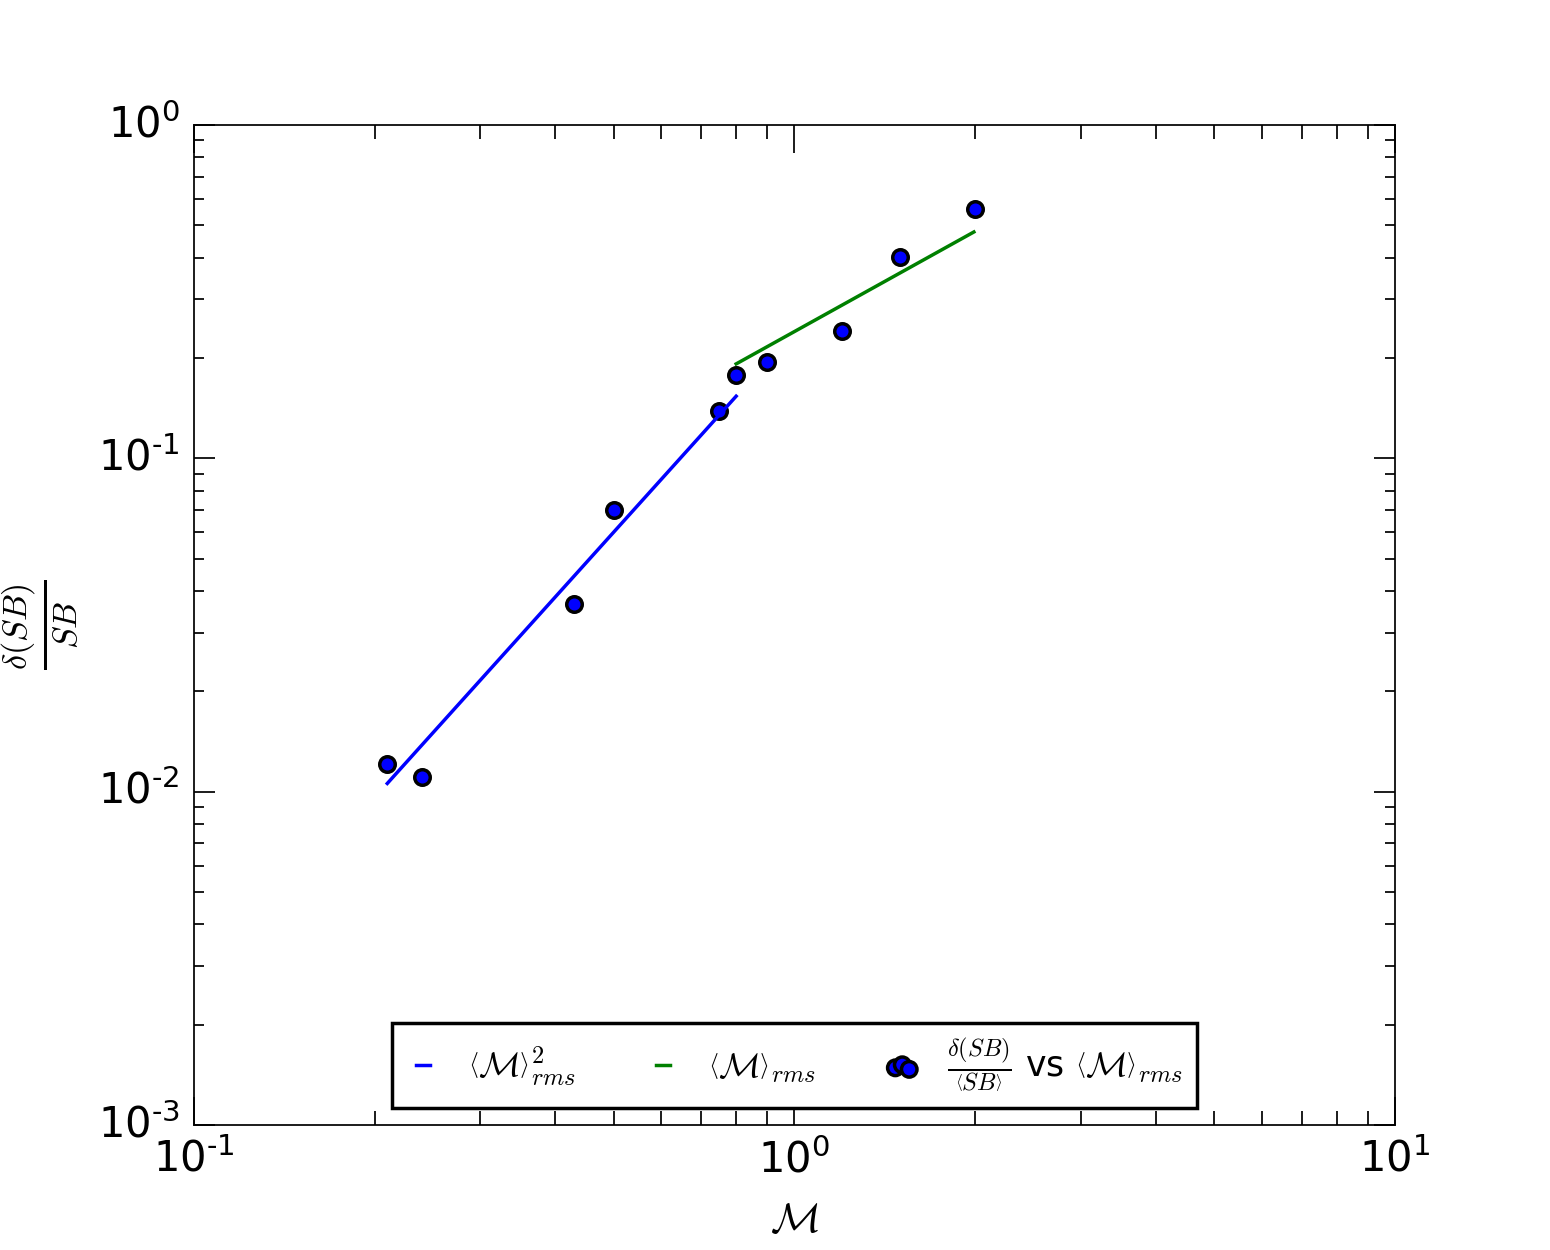
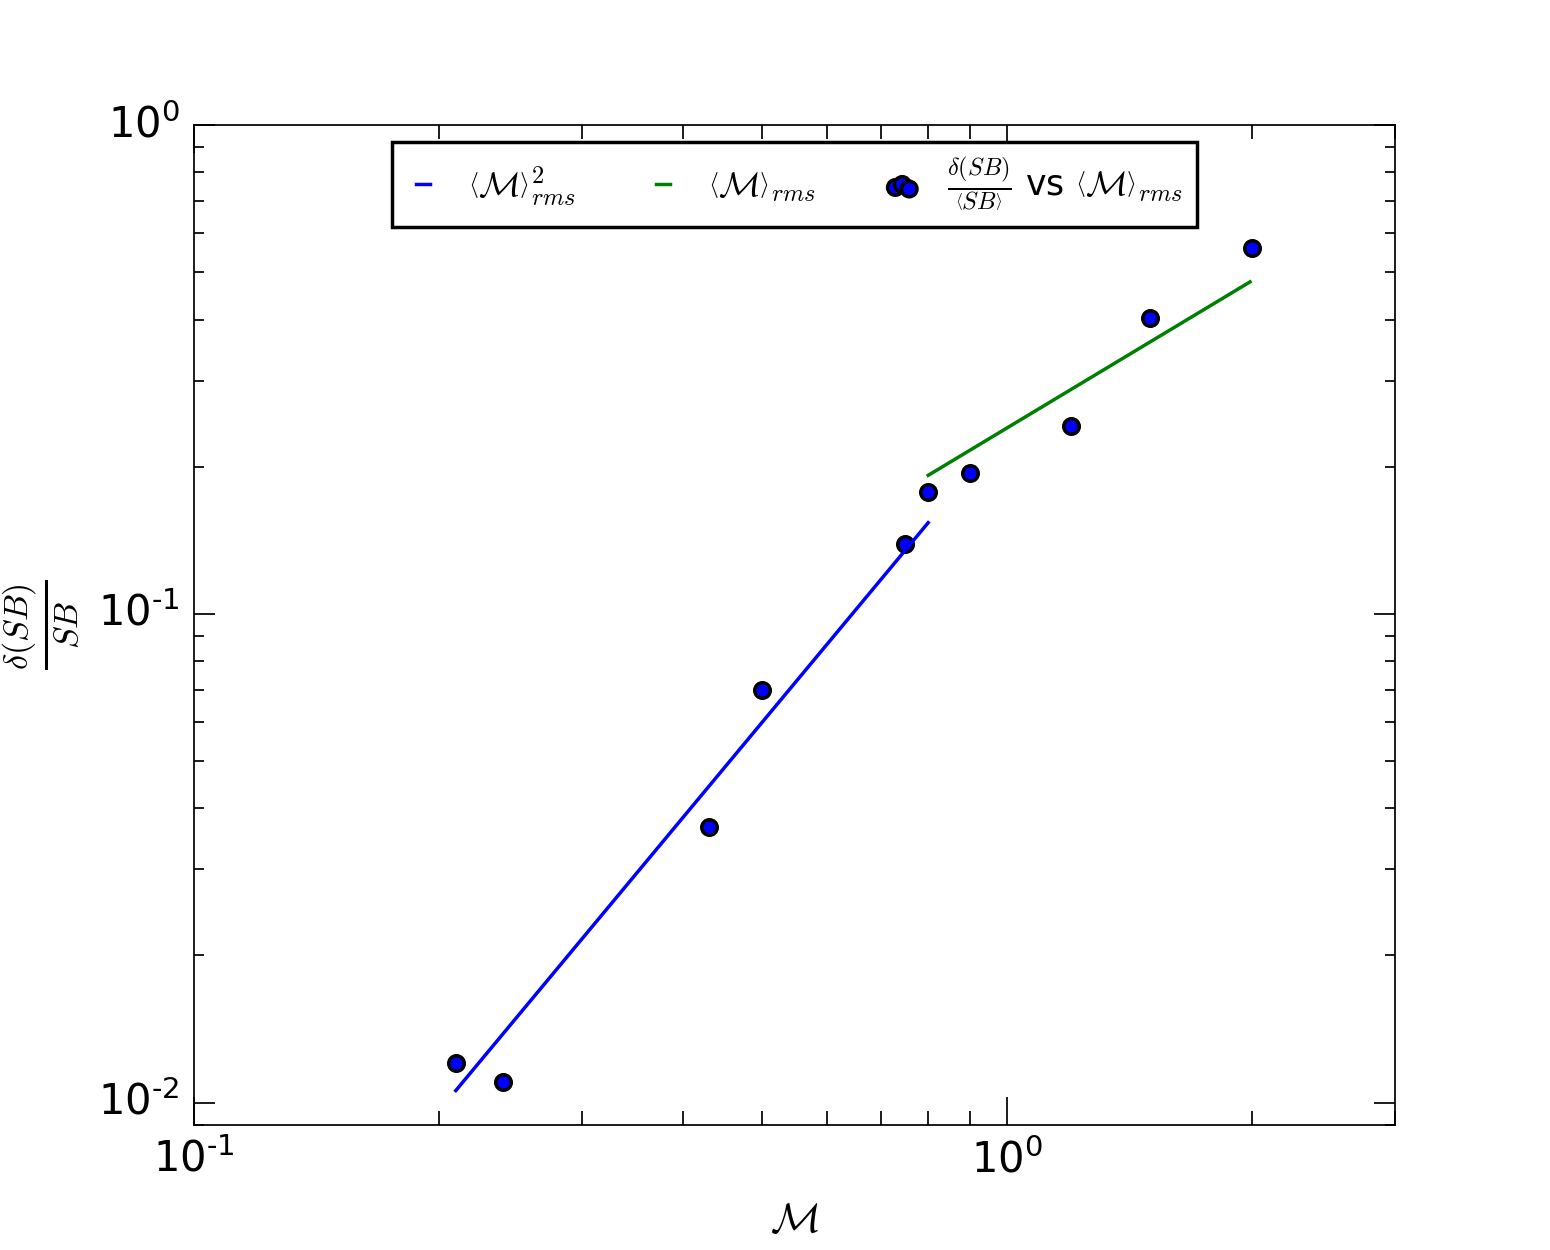
Edited sb_mach plot

diff --git a/surface_brightness/sb_mach.py b/surface_brightness/sb_mach.py
@@ -41,11 +41,11 @@ m1=np.arange(0.21, 0.8, 0.01)
 m2=np.arange(0.8, 2.0, 0.01)
 ax.plot(m1, 0.24*m1**2., label=r'$\left<\mathcal{M}\right>_{rms}^2$')
 ax.plot(m2, .24*m2, label=r'$\left<\mathcal{M}\right>_{rms}$')
-ax.legend(loc='lower center', ncol=3)
+ax.legend(loc='upper center', ncol=3)
 ax.set_xscale('log')
 ax.set_yscale('log')
-#ax.set_xlim(0.2,4.)
-#ax.set_ylim(0.005,.3)
+ax.set_xlim(0.1,3.)
+ax.set_ylim(0.009,1.)
 ax.set_xlabel('$\mathcal{M}$',  fontsize=12)
 ax.set_ylabel(r'$\frac{\delta (SB)}{SB}$',  fontsize=14)
 plt.savefig('sb_mach.png', dpi=250)
